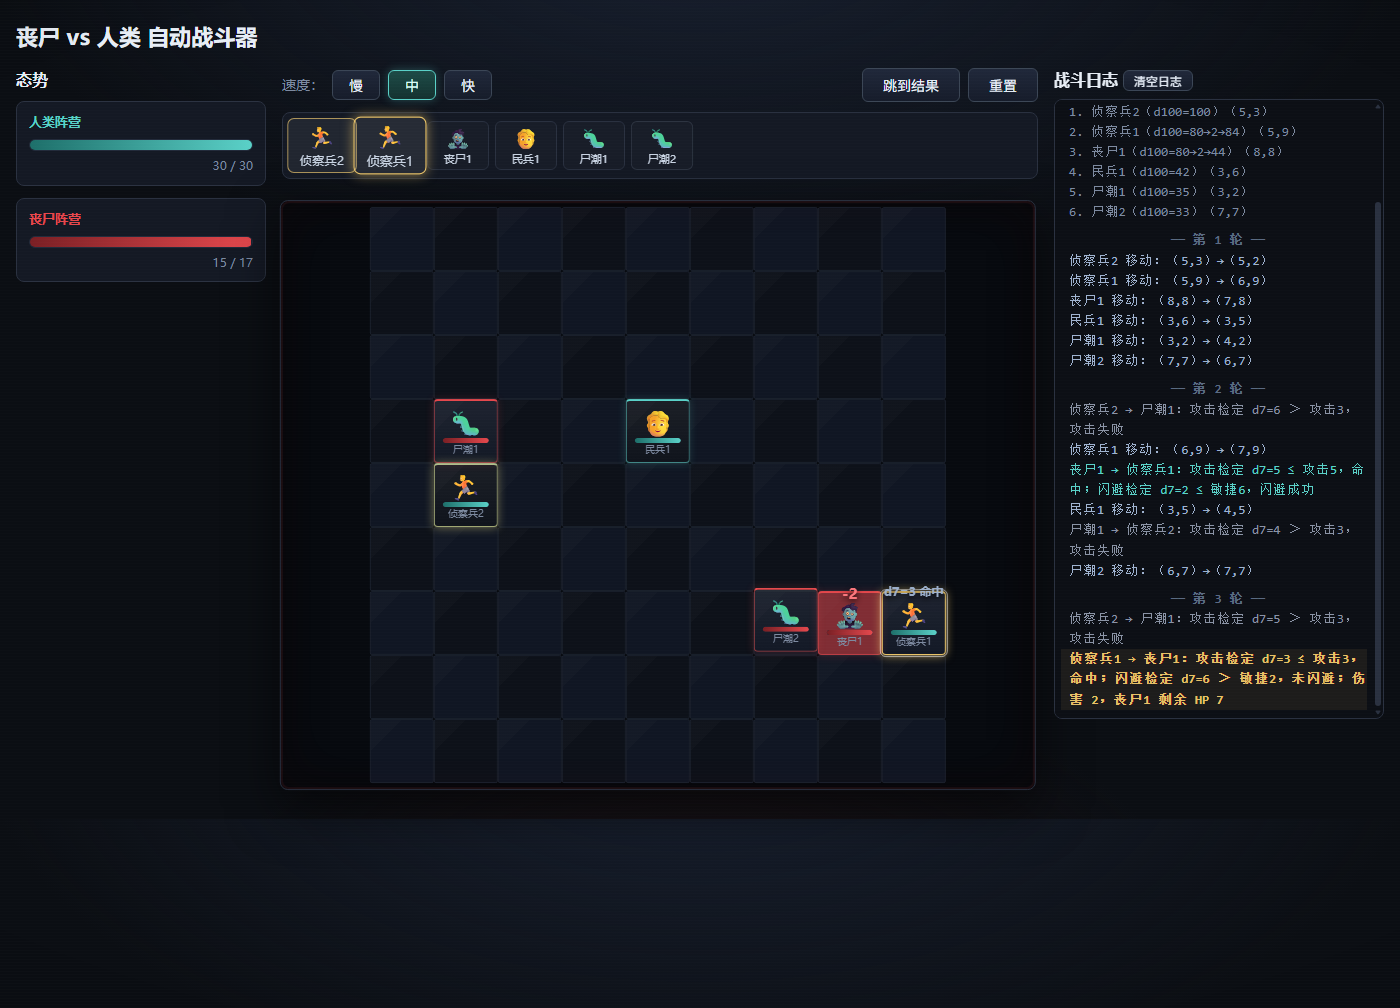
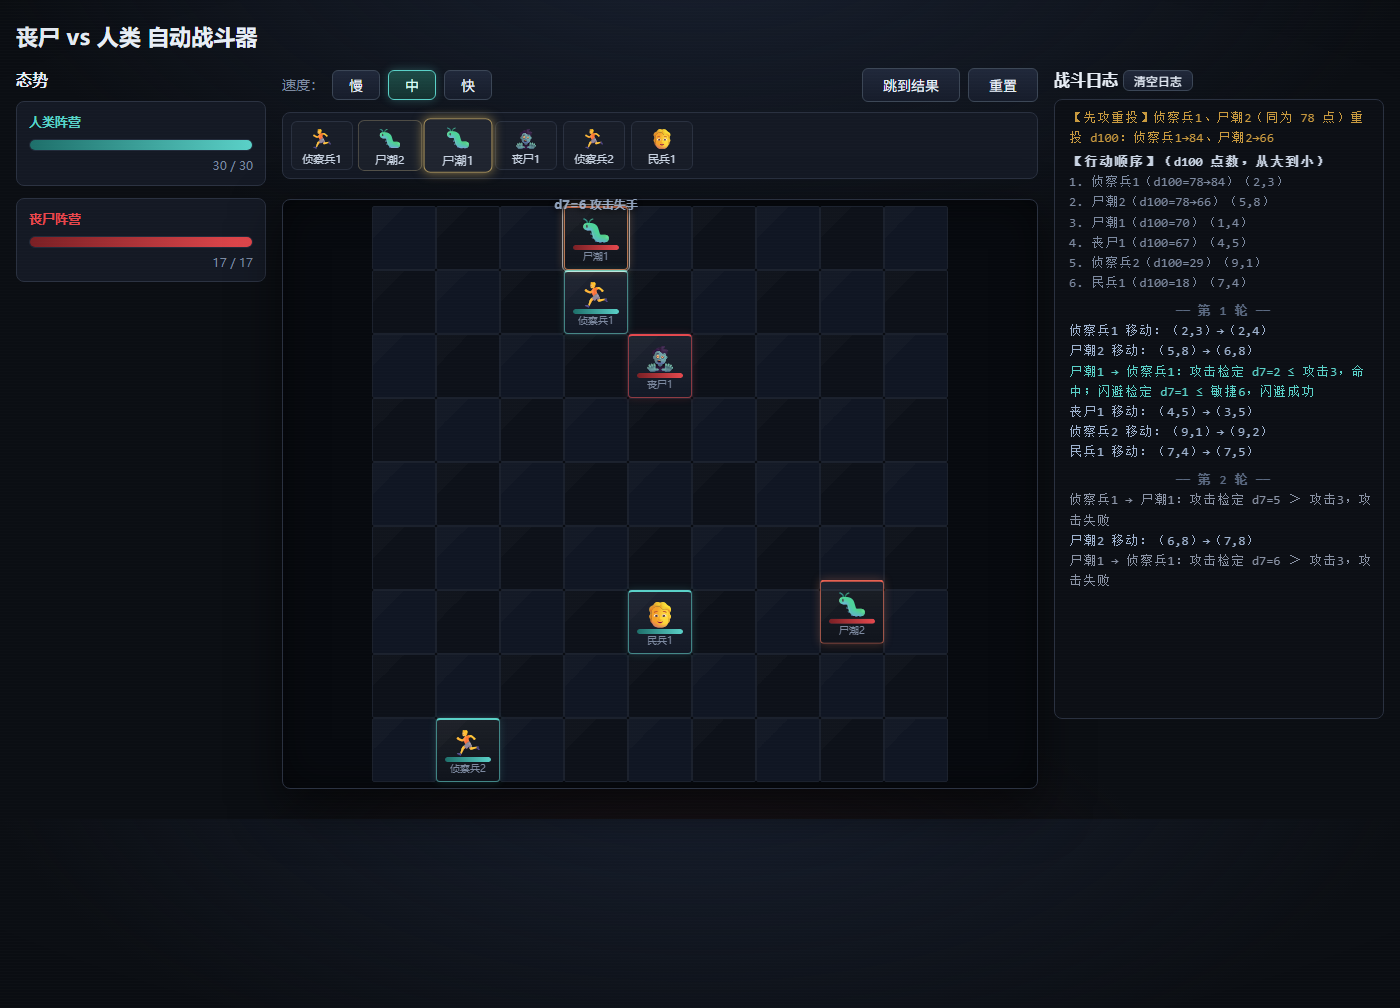
fix: address first-review findings (dual tables, S4 horde10 case, info var names)

diff --git a/README.md b/README.md
@@ -43,17 +43,20 @@ git clone https://github.com/sageri/zombie-battle-game.git
 
 两个阵营各有专属兵种表：**兵种 = 固定四属性模板 + 点数成本**，属性不可改动，战场辨识靠「兵种名入名 + 专属 Emoji」。
 
-| 阵营 | 兵种 | 定位 | Emoji | HP | 攻 | 敏 | 伤害 | 成本 |
-| ---- | ---- | ---- | ---- | -- | -- | -- | ---- | ---- |
-| 人类 | 民兵 | 均衡 | 🧑 | 12 | 4 | 4 | 1–3 | 10 |
-| 人类 | 守卫 | 肉盾 | 🛡 | 20 | 3 | 3 | 1–2 | 12 |
-| 人类 | 枪手 | 火力 | 🔫 | 8 | 6 | 2 | 1–6 | 12 |
-| 人类 | 侦察兵 | 游击 | 🏃 | 9 | 3 | 6 | 1–3 | 8 |
-| 丧尸 | 丧尸 | 均衡 | 🧟 | 9 | 5 | 2 | 1–5 | 10 |
-| 丧尸 | 腐行者 | 肉盾 | 🦠 | 18 | 4 | 1 | 1–3 | 12 |
-| 丧尸 | 撕裂者 | 火力 | 🩸 | 7 | 6 | 1 | 2–6 | 12 |
-| 丧尸 | 疾行者 | 游击 | 💨 | 8 | 4 | 5 | 1–4 | 8 |
-| 丧尸 | 尸潮 | 炮灰 | 🐛 | 4 | 3 | 1 | 1–2 | 3 |
+| 兵种 | 定位 | Emoji | HP | 攻 | 敏 | 伤害 | 成本 |
+| ---- | ---- | ---- | -- | -- | -- | ---- | ---- |
+| 民兵 | 均衡 | 🧑 | 12 | 4 | 4 | 1–3 | 10 |
+| 守卫 | 肉盾 | 🛡 | 20 | 3 | 3 | 1–2 | 12 |
+| 枪手 | 火力 | 🔫 | 8 | 6 | 2 | 1–6 | 12 |
+| 侦察兵 | 游击 | 🏃 | 9 | 3 | 6 | 1–3 | 8 |
+
+| 兵种 | 定位 | Emoji | HP | 攻 | 敏 | 伤害 | 成本 |
+| ---- | ---- | ---- | -- | -- | -- | ---- | ---- |
+| 丧尸 | 均衡 | 🧟 | 9 | 5 | 2 | 1–5 | 10 |
+| 腐行者 | 肉盾 | 🦠 | 18 | 4 | 1 | 1–3 | 12 |
+| 撕裂者 | 火力 | 🩸 | 7 | 6 | 1 | 2–6 | 12 |
+| 疾行者 | 游击 | 💨 | 8 | 4 | 5 | 1–4 | 8 |
+| 尸潮 | 炮灰 | 🐛 | 4 | 3 | 1 | 1–2 | 3 |
 
 - **编成**＝在 32 点配点预算内购置「兵种×数量」的组合：人数不直接填，由编成内生（每边 1–36），允许不满用；预算条实时显示「已用 X / 32」，超支变红且拒绝开战。
 - 均衡型（民兵 / 丧尸）的属性与改版前的默认值相同。
